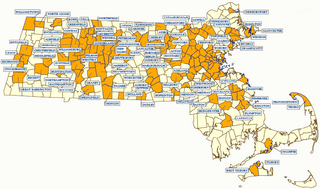
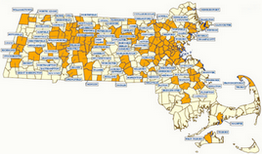
The design of the start page was changed

diff --git a/style/style.css b/style/style.css
@@ -105,7 +105,7 @@ body {
 {
     overflow: auto;
     width:325px;
-    height:200px;
+    height:150px;
     margin: 15px auto 0px auto;     
     
     border-bottom: 0px solid #d7d7d7;    
@@ -114,7 +114,7 @@ body {
 .square2
 {
     width:325px;
-    height:235px;
+    height:200px;
     margin: 1px auto 0px auto;   
     padding-bottom: 7px;
     border-bottom: 0px solid #d7d7d7;    
@@ -124,8 +124,8 @@ body {
 {
     overflow: auto;
     width:325px;
-    height:230px;
-    margin: 65px 0 0 0;    
+    height:140px;
+    margin: 0 0 0 0;    
 }
 
 
@@ -273,6 +273,18 @@ body {
     float: left;
 }
 
+div.map
+{
+    margin: 0 0 0 57px;
+    font-size: 14px;
+    font-style: italic;
+    font-family: georgia;
+   /* color: #666;*/
+    text-align: left;
+    float: left;
+	width: 262px;
+}
+
 span.phone
 {
     display: block;
@@ -374,7 +386,7 @@ img.logo
 img.MA_map
 {
   margin: 0; 
-  width: 300px; 
+  width: 262px; 
   z-index:-1;
 }
 

diff --git a/index.php b/index.php
@@ -23,49 +23,28 @@
 			<?php include($_SERVER["DOCUMENT_ROOT"]."/shared/navigation.php"); ?>		
 
 			<div class="right" id="fadehome">
-			<table style="vertical-align: top;">
-				<tr>
-					<td>
-						<div class="grey" > 
-							<img src="/images/thehomepage3.png" alt="Massachusetts Energy Star Efficiency" style="margin: 0px 0px 30px 0px; width:350px;" >
-						
-							<!--	
-							<div id="homeslide" class="pics">
-								
-								 Add other images to get slideshow working 
-								
-							</div> --> <!-- end div.homeslide -->
-
-							<!-- ### Commenting out Prev and Next buttons until slideshow is enabled ### 
-							<div class="nav">
-								<a id="prev" href="javascript:void(0);" title="Previous"><img src="images/prev2.png" alt="Previous Button"/></a> 
-								<a id="next" href="javascript:void(0);" title="Next"><img src="images/next2.png" alt="Next Button"/></a>
-							</div> -->
-
-					
-							<br style="clear:both;" />
-						</div> <!-- end div.grey -->
-					</td>
-					<td>
-						<div class="green bold">122 municipialities in Massachusetts have adopted the new Stretch Code</div>
-						<img src="/images/MA_map.png" alt="Massachusetts map" class="MA_map" >
-						
-						<div class="check_code" >
-							<a href="#?w=400" rel="popup_check_code" class="poplight" >Check your city now!</a>
-						</div>
-						
-						<div class="blue bold" style="margin-top: -80px; position:absolute; z-index: 99;  font-size: 14px; width: 180px;">
-							<?$city=getCityByIp(getRealIpAddr());?> 
-							<div><?=$city;?>:</div>
-							<div><?=getCityStatus($city);?></div>
-						</div>
-						
-					</td>
-
-				</tr>
-			</table>
-	
+			
+				<div class="grey" > 
+					<img src="/images/thehomepage2.png" alt="Massachusetts Energy Star Efficiency" style="margin: 0px 0px 30px 0px; " >
 				
+					<!--	
+					<div id="homeslide" class="pics">
+						
+						 Add other images to get slideshow working 
+						
+					</div> --> <!-- end div.homeslide -->
+
+					<!-- ### Commenting out Prev and Next buttons until slideshow is enabled ### 
+					<div class="nav">
+						<a id="prev" href="javascript:void(0);" title="Previous"><img src="images/prev2.png" alt="Previous Button"/></a> 
+						<a id="next" href="javascript:void(0);" title="Next"><img src="images/next2.png" alt="Next Button"/></a>
+					</div> -->
+
+			
+					<br style="clear:both;" />
+				</div> <!-- end div.grey -->
+					
+								
 	<div class="tagline" style="margin:30px 0 40px 0;"><h1>We are an <img src="/images/spark2.png" alt="" style="margin: -6px 6px 0px 0px;" >partner collaborating
 						with architects, builders and homeowners in and around Boston to achieve all of your energy
 						efficiency goals.</h1></div>

diff --git a/geo/functions.php b/geo/functions.php
@@ -50,6 +50,33 @@ function getCityByIp($ipaddress)
 	
 }
 
+function getShortCityStatus($city){
+
+	// Download data from the table: city | status | effective date.
+	$arr = split(" ", $city); 
+	$city = $arr[0];
+	$info = "";		
+	$fd = fopen($_SERVER["DOCUMENT_ROOT"]."/geo/CityStatusDate.csv", "r");
+	while (($arr = fgetcsv($fd, 1024, ";")) !== FALSE) {
+		$data[] = $arr;
+	}
+	$i = 0;
+	foreach ($data as $value){
+	
+		if ($value[0] == $city){
+	
+			$info="";
+			$status = $value[2];
+			$arr = split("adopted", $status);
+			$date = $value[3];
+			$info = "". $arr[0] . "adopted Stretch Code on" . $arr[1];
+			break;
+		} 
+	}	
+	
+	return $info;
+}
+
 //Provide an information on the city status
 function getCityStatus($city){
 // Download data from the table: city | status | effective date.
@@ -83,6 +110,10 @@ function getInfoByCity($city){
 	$info =  $city . " " . getCityStatus($city);
 	return $info;
 }
+
+
+
+
 ?>
 
 

diff --git a/shared/navigation.php b/shared/navigation.php
@@ -30,7 +30,24 @@
 			<span class="phone"> 617-418-1444 </span>
 			<span class="email"><a href="#?w=495" rel="popup_contact" class="poplight">Contact Us</a></span>
 		</div>
+		
+		
 	</div> <!-- end div.square3 -->
+	
+	<div class="map">
+		<div class="green bold">new Stretch Code</div>
+		<img src="/images/MA_map.png" alt="Massachusetts map" class="MA_map" >
+					
+		<div class="check_code" style="margin-top: -30px; position:absolute; z-index: 99; ">
+			<a href="#?w=400" rel="popup_check_code" class="poplight" >Check your city now!</a>
+		</div>
+		
+		<div class="blue bold" style="margin-top: 0px; position:absolute; z-index: 99;  font-size:10px; width: 262px;">
+			<?$city=getCityByIp(getRealIpAddr());?> 
+			<div><?=$city;?>:</div>
+			<div><?=getShortCityStatus($city);?></div>
+		</div>
+	</div>
 </div> <!-- end div.left -->
 
 <!-- Client Login and Logo -->
